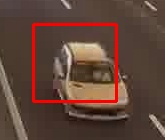
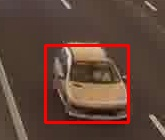
implement two modified DS algorithms

Changed region(s): [[0.1818, 0.1429, 0.8182, 0.9143]]

diff --git a/demo/new_DS_center.py b/demo/new_DS_center.py
@@ -26,13 +26,16 @@ def _costMAD(block1, block2):
     return np.mean(np.abs(block1 - block2))
 
 def _checkBounded(xval, yval, w, h, blockW, blockH):
-    if ((yval < 0) or
-       (yval + blockH >= h) or
-       (xval < 0) or
-       (xval + blockW >= w)):
+    left_bound = xval - blockW // 2
+    right_bound = xval + blockW - blockW // 2
+    top_bound = yval - blockH // 2
+    bottom_bound = yval + blockH - blockH // 2
+
+    if (left_bound < 0 or right_bound >= w or top_bound < 0 or bottom_bound >= h):
         return False
     else:
         return True
+
 
 def DS_for_bbox(imgCurr, imgPrev, bboxPrev):
     """
@@ -61,12 +64,12 @@ def DS_for_bbox(imgCurr, imgPrev, bboxPrev):
     LDSP = [[0, -2], [-1, -1], [1, -1], [-2, 0], [0, 0], [2, 0], [-1, 1], [1, 1], [0, 2]]
     SDSP = [[0, -1], [-1, 0], [0, 0], [1, 0], [0, 1]]
        
-    # # Initialize the search center point
-    # xCenter = (x1 + x2) // 2
-    # yCenter = (y1 + y2) // 2
+    # Initialize the search center point
+    xCenter = (x1 + x2) // 2
+    yCenter = (y1 + y2) // 2
     
-    x = x1       # (x, y) large diamond center point
-    y = y1
+    x = xCenter       # (x, y) large diamond center point
+    y = yCenter
     
     # start search
     costs[4] = _costMAD(imgCurr[y1:y2, x1:x2], imgPrev[y1:y2, x1:x2])
@@ -75,13 +78,16 @@ def DS_for_bbox(imgCurr, imgPrev, bboxPrev):
     if costs[4] != 0:
         computations += 1
         for k in range(9):
-            yDiamond = y + LDSP[k][1]              # (xSearch, ySearch): points at the diamond
+            yDiamond = y + LDSP[k][1]              # (xDiamond, yDiamond): points at the diamond
             xDiamond = x + LDSP[k][0]
             if not _checkBounded(xDiamond, yDiamond, w, h, blockW, blockH):
                 continue
             if k == 4:
                 continue
-            costs[k] = _costMAD(imgCurr[yDiamond:yDiamond+blockH, xDiamond:xDiamond+blockW], imgPrev[y1:y2, x1:x2])
+            costs[k] = _costMAD(imgCurr[yDiamond - blockH // 2 : yDiamond + blockH - blockH // 2, 
+                                xDiamond - blockW // 2 : xDiamond + blockW - blockW // 2], 
+                                imgPrev[yCenter - blockH // 2 : yCenter + blockH - blockH // 2, 
+                                xCenter - blockW // 2 : xCenter + blockW - blockW // 2])
             computations += 1
 
         point = np.argmin(costs)
@@ -116,7 +122,10 @@ def DS_for_bbox(imgCurr, imgPrev, bboxPrev):
                            (yDiamond <= yLast + 1)):
                             continue
                         else:
-                            costs[k] = _costMAD(imgCurr[yDiamond:yDiamond+blockH, xDiamond:xDiamond+blockW], imgPrev[y1:y2, x1:x2])
+                            costs[k] = _costMAD(imgCurr[yDiamond - blockH // 2 : yDiamond + blockH - blockH // 2, 
+                                                 xDiamond - blockW // 2 : xDiamond + blockW - blockW // 2], 
+                                                 imgPrev[yCenter - blockH // 2 : yCenter + blockH - blockH // 2, 
+                                                 xCenter - blockW // 2 : xCenter + blockW - blockW // 2])
                             computations += 1
                 else:                                # next MBD point is at the edge
                     lst = []
@@ -135,7 +144,10 @@ def DS_for_bbox(imgCurr, imgPrev, bboxPrev):
                         if not _checkBounded(xDiamond, yDiamond, w, h, blockW, blockH):
                             continue
                         else:
-                            costs[idx] = _costMAD(imgCurr[yDiamond:yDiamond+blockH, xDiamond:xDiamond+blockW], imgPrev[y1:y2, x1:x2])
+                            costs[idx] = _costMAD(imgCurr[yDiamond - blockH // 2 : yDiamond + blockH - blockH // 2, 
+                                                 xDiamond - blockW // 2 : xDiamond + blockW - blockW // 2], 
+                                                 imgPrev[yCenter - blockH // 2 : yCenter + blockH - blockH // 2, 
+                                                 xCenter - blockW // 2 : xCenter + blockW - blockW // 2])
                             computations += 1
 
                 point = np.argmin(costs)
@@ -166,7 +178,10 @@ def DS_for_bbox(imgCurr, imgPrev, bboxPrev):
                 if k == 2:
                     continue
 
-                costs[k] = _costMAD(imgCurr[yDiamond:yDiamond+blockH, xDiamond:xDiamond+blockW], imgPrev[y1:y2, x1:x2])
+                costs[k] = _costMAD(imgCurr[yDiamond - blockH // 2 : yDiamond + blockH - blockH // 2, 
+                                            xDiamond - blockW // 2 : xDiamond + blockW - blockW // 2], 
+                                            imgPrev[yCenter - blockH // 2 : yCenter + blockH - blockH // 2, 
+                                            xCenter - blockW // 2 : xCenter + blockW - blockW // 2])
                 computations += 1
 
             point = 2
@@ -180,7 +195,7 @@ def DS_for_bbox(imgCurr, imgPrev, bboxPrev):
             
             costs[:] = 65537
 
-            bboxCurr = [x, y, x+blockW, y+blockH]
+            bboxCurr = [x - blockW // 2, y - blockH // 2, x + blockW - blockW // 2, y + blockH - blockH // 2]
             print(computations)
     return bboxCurr, computations / ((h * w) / (blockW*blockH))
         
